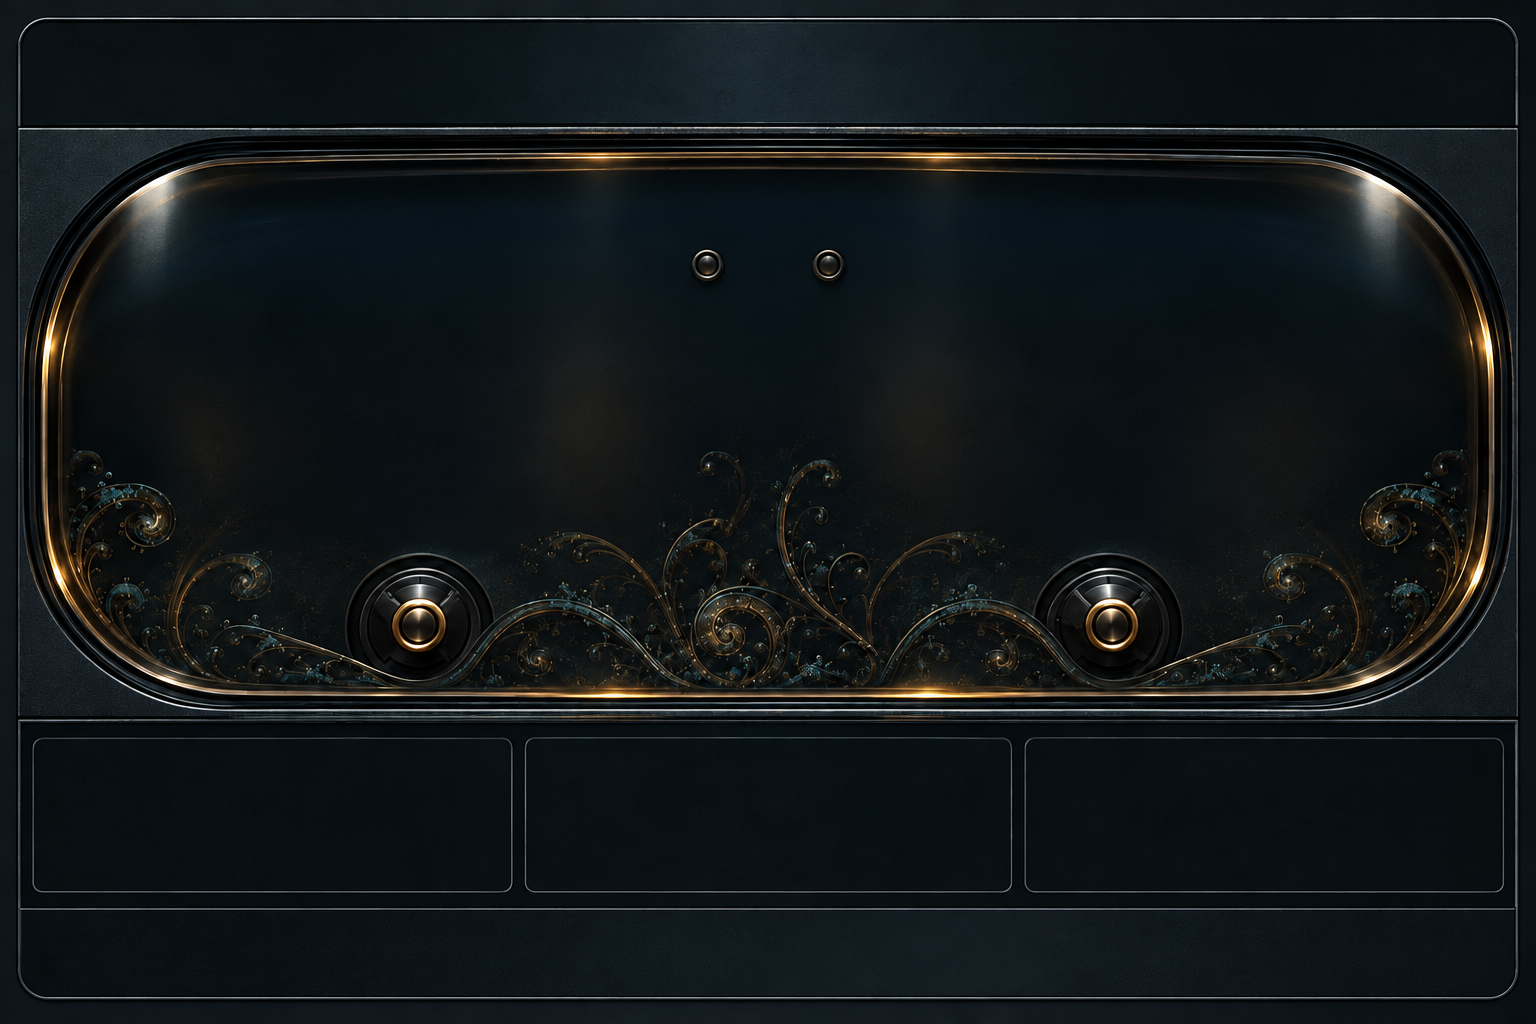
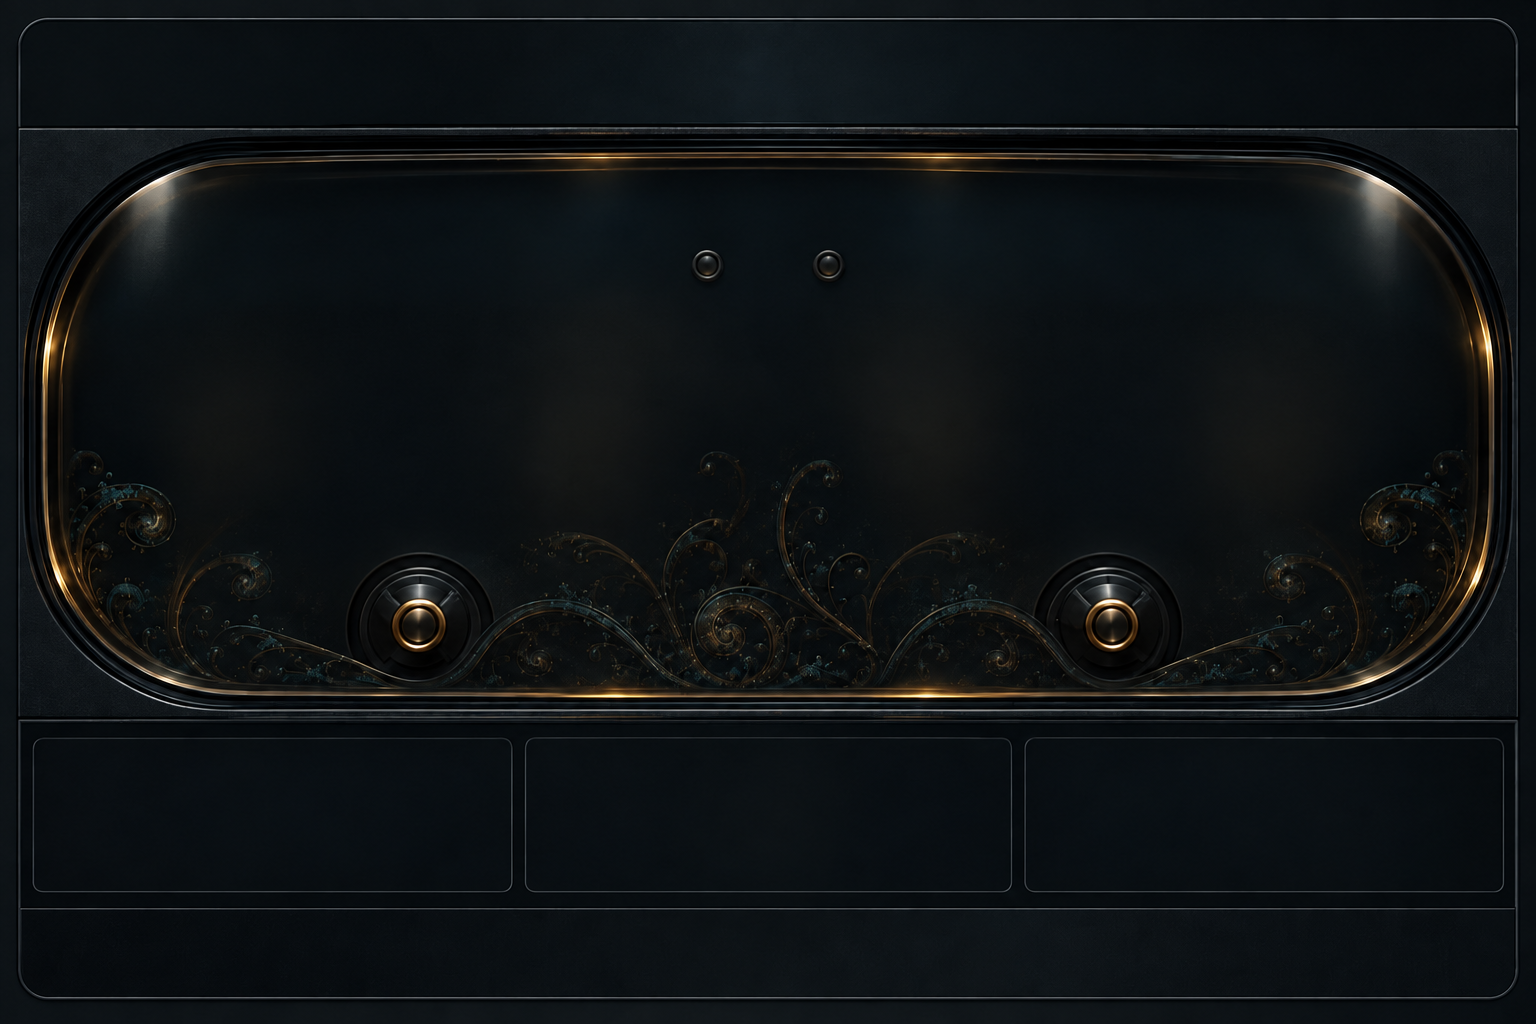
[B-764] Match Hybrid VU reference face

diff --git a/juce_shell/src/HyphaHybridVuPainter.cpp b/juce_shell/src/HyphaHybridVuPainter.cpp
@@ -16,6 +16,12 @@ constexpr float pi = juce::MathConstants<float>::pi;
 constexpr std::array<int, 18> vuTickHalves {
     -40, -35, -30, -25, -20, -18, -16, -14, -12, -10, -8, -6, -4, -2, 0, 2, 4, 6
 };
+// A physical VU face is not a linear dB ruler.  These control points reproduce the attached
+// dial's engraved positions while the 300 ms measurement and 0 VU calibration remain unchanged.
+constexpr std::array<double, 10> vuScaleDb { -40.0, -20.0, -10.0, -7.0, -5.0,
+                                             -3.0, -1.0, 0.0, 1.0, 3.0 };
+constexpr std::array<float, 10> vuScalePosition { 0.0f, 0.071f, 0.239f, 0.328f, 0.421f,
+                                                  0.550f, 0.701f, 0.780f, 0.866f, 1.0f };
 
 const auto meterIvory = COL_FLORA_BR.interpolatedWith (COL_NORMAL, 0.34f);
 
@@ -34,9 +40,10 @@ float scaled (float value, float width, float minimum = 0.7f) noexcept
 
 void drawText (juce::Graphics& g, const juce::String& text, juce::Rectangle<float> area,
                float fontHeight, juce::Colour colour, juce::Justification justification,
-               bool tabular = false)
+               bool tabular = false, float tracking = 0.0f)
 {
-    const auto font = tabular ? monoFont (fontHeight) : labelFont (fontHeight);
+    const auto font = (tabular ? monoFont (fontHeight) : labelFont (fontHeight))
+                          .withExtraKerningFactor (tracking);
     g.setColour (colour);
     if (tabular)
         drawTabularText (g, font, text, area, justification);
@@ -58,48 +65,51 @@ void paintHeader (juce::Graphics& g, juce::Rectangle<float> area, const State& s
     drawText (g, width >= 450.0f ? "H Y P H A" : "HYPHA",
               titleArea.removeFromLeft (hyphaWidth), fontHeight,
               COL_NORMAL, juce::Justification::centredLeft);
-    titleArea.removeFromLeft (scaled (10.0f, width, 2.0f));
+    titleArea.removeFromLeft (scaled (5.0f, width, 1.0f));
     drawText (g, state.role == observatory::Role::post ? "POST" : "PRE", titleArea,
               fontHeight * 0.87f, COL_MUTED.brighter (0.18f),
-              juce::Justification::centredLeft);
+              juce::Justification::centredLeft, false, 0.12f);
 
-    auto record = title.removeFromRight (title.getWidth() * 0.20f);
+    auto record = title.removeFromRight (title.getWidth() * (width < 450.0f ? 0.28f : 0.205f));
     auto connection = title;
     if (width >= 450.0f)
         connection.removeFromLeft (connection.getWidth() * 0.60f);
     const auto dot = juce::jlimit (3.0f, 11.0f, width * 0.010f);
     const auto connectionDot = juce::Point<float> (connection.getX() + dot,
                                                     connection.getCentreY());
-    g.setColour (state.connectionColour.withAlpha (0.13f));
+    const auto brightConnection = state.connectionColour.interpolatedWith (
+        COL_SPECTRUM_DELTA, 0.30f);
+    g.setColour (brightConnection.withAlpha (0.13f));
     g.fillEllipse (connectionDot.x - dot, connectionDot.y - dot, dot * 2.0f, dot * 2.0f);
-    g.setColour (state.connectionColour);
+    g.setColour (brightConnection);
     g.fillEllipse (connectionDot.x - dot * 0.45f, connectionDot.y - dot * 0.45f,
                    dot * 0.9f, dot * 0.9f);
     connection.removeFromLeft (dot * 3.4f);
     drawText (g, state.connectionText, connection.reduced (0.0f, area.getHeight() * 0.15f),
-              fontHeight * 0.66f, state.connectionColour,
+              fontHeight * 0.66f, brightConnection,
               juce::Justification::centredLeft);
 
     g.setColour (COL_MUTED.withAlpha (0.46f));
     g.drawVerticalLine (juce::roundToInt (record.getX()),
                         record.getY() + area.getHeight() * 0.24f,
                         record.getBottom() - area.getHeight() * 0.24f);
-    const auto recordDot = juce::Point<float> (record.getX() + record.getWidth() * 0.45f,
+    const auto recordDot = juce::Point<float> (record.getX() + record.getWidth() * 0.42f,
                                                 record.getCentreY());
-    g.setColour (COL_FLORA_BR.withAlpha (0.11f));
+    const auto recordColour = COL_MUTED.brighter (0.30f);
+    g.setColour (recordColour.withAlpha (0.11f));
     g.fillEllipse (recordDot.x - dot, recordDot.y - dot, dot * 2.0f, dot * 2.0f);
-    g.setColour (COL_FLORA_BR);
+    g.setColour (recordColour);
     g.fillEllipse (recordDot.x - dot * 0.48f, recordDot.y - dot * 0.48f,
                    dot * 0.96f, dot * 0.96f);
-    record.removeFromLeft (record.getWidth() * 0.62f);
-    drawText (g, "REC", record, fontHeight * 0.68f, COL_NORMAL.withAlpha (0.88f),
-              juce::Justification::centredLeft);
+    record.removeFromLeft (record.getWidth() * 0.60f);
+    drawText (g, "REC", record, fontHeight * 0.68f, recordColour,
+              juce::Justification::centredLeft, false, 0.10f);
 }
 
 juce::Point<float> peakRailPoint (juce::Rectangle<float> face, int channel, float amount)
 {
-    const auto inner = channel == 0 ? 0.390f : 0.610f;
-    const auto outer = channel == 0 ? 0.075f : 0.925f;
+    const auto inner = channel == 0 ? 0.384f : 0.616f;
+    const auto outer = channel == 0 ? 0.071f : 0.929f;
     const auto x = face.getX() + face.getWidth() * juce::jmap (amount, outer, inner);
     const auto y = face.getY() + face.getHeight()
         * (0.225f - 0.060f * std::sin (amount * pi * 0.5f));
@@ -113,26 +123,31 @@ void paintPeakRail (juce::Graphics& g, juce::Rectangle<float> face, const State&
         && std::isfinite (state.meter.channel_instant_true_peak_dbtp[channel]);
     const auto progress = available
         ? truePeakNormalized (state.meter.channel_instant_true_peak_dbtp[channel]) : 0.0f;
-    const int segments = compact ? 17 : 43;
+    const int segments = compact ? 21 : 49;
     const auto width = face.getWidth();
     for (int index = 0; index < segments; ++index)
     {
         const auto amount = static_cast<float> (index) / static_cast<float> (segments - 1);
         const auto point = peakRailPoint (face, channel, amount);
         const auto lit = amount <= progress;
-        const auto emphasized = lit && amount >= 0.07f;
-        const auto height = scaled (index % (compact ? 3 : 6) == 0 ? 10.0f : 7.0f,
-                                    width, compact ? 2.0f : 3.0f);
+        const auto emphasized = lit && amount >= truePeakNormalized (-24.0);
+        const auto height = scaled (index % (compact ? 4 : 7) == 0 ? 12.0f : 9.0f,
+                                    width, compact ? 2.4f : 3.5f);
         if (emphasized)
         {
-            const auto segmentWidth = scaled (compact ? 4.0f : 5.2f, width, 1.3f);
+            const auto segmentWidth = scaled (compact ? 4.0f : 5.6f, width, 1.3f);
+            g.setColour (COL_SPECTRUM_DELTA.withAlpha (0.14f));
+            g.fillRoundedRectangle (point.x - segmentWidth,
+                                    point.y - height * 0.75f,
+                                    segmentWidth * 2.0f, height * 1.5f,
+                                    segmentWidth * 0.55f);
             g.setColour (COL_SPECTRUM_DELTA.withAlpha (0.96f));
             g.fillRoundedRectangle (point.x - segmentWidth * 0.5f, point.y - height * 0.5f,
                                     segmentWidth, height, segmentWidth * 0.28f);
         }
         else
         {
-            g.setColour (COL_SPECTRUM_DELTA.withAlpha (0.66f));
+            g.setColour (COL_SPECTRUM_DELTA.withAlpha (0.78f));
             g.drawVerticalLine (juce::roundToInt (point.x), point.y - height * 0.5f,
                                 point.y + height * 0.5f);
         }
@@ -143,9 +158,14 @@ void paintPeakRail (juce::Graphics& g, juce::Rectangle<float> face, const State&
     {
         const auto held = peakRailPoint (
             face, channel, truePeakNormalized (state.meter.channel_max_true_peak_dbtp[channel]));
+        g.setColour (COL_FLORA_BR.withAlpha (0.17f));
+        g.fillRoundedRectangle (held.x - scaled (5.0f, width),
+                                held.y - scaled (15.0f, width),
+                                scaled (10.0f, width), scaled (30.0f, width),
+                                scaled (4.0f, width));
         g.setColour (COL_FLORA_BR);
-        g.fillRoundedRectangle (held.x - scaled (2.0f, width), held.y - scaled (11.0f, width),
-                                scaled (4.0f, width), scaled (22.0f, width),
+        g.fillRoundedRectangle (held.x - scaled (2.0f, width), held.y - scaled (12.0f, width),
+                                scaled (4.0f, width), scaled (24.0f, width),
                                 scaled (1.5f, width));
     }
 
@@ -176,11 +196,14 @@ void paintClipStatus (juce::Graphics& g, juce::Rectangle<float> face, const Stat
         const auto x = centre.x + (channel == 0 ? -1.0f : 1.0f) * scaled (36.0f, width, 12.0f);
         const auto on = state.cumulativeAvailable && channel < state.meter.channels
                      && state.meter.clip_events[channel] > 0;
-        g.setColour ((on ? COL_FLORA_BR : COL_MUTED).withAlpha (on ? 0.90f : 0.24f));
-        g.fillEllipse (x - radius, centre.y - radius, radius * 2.0f, radius * 2.0f);
-        g.setColour (COL_MUTED.withAlpha (0.72f));
-        g.drawEllipse (x - radius, centre.y - radius, radius * 2.0f, radius * 2.0f,
-                       scaled (1.0f, width));
+        if (on)
+        {
+            g.setColour (COL_FLORA_BR.withAlpha (0.16f));
+            g.fillEllipse (x - radius, centre.y - radius, radius * 2.0f, radius * 2.0f);
+            const auto core = radius * 0.40f;
+            g.setColour (COL_FLORA_BR.withAlpha (0.96f));
+            g.fillEllipse (x - core, centre.y - core, core * 2.0f, core * 2.0f);
+        }
     }
     if (! compact)
     {
@@ -211,8 +234,8 @@ DialGeometry dialGeometry (juce::Rectangle<float> face, int channel)
 {
     const auto half = face.getWidth() * 0.5f;
     return {
-        { face.getX() + half * (channel == 0 ? 0.52f : 1.48f),
-          face.getY() + face.getHeight() * 0.86f },
+        { face.getX() + half * (channel == 0 ? 0.515f : 1.475f),
+          face.getY() + face.getHeight() * 0.865f },
         juce::jmin (half * 0.438f, face.getHeight() * 0.59f),
         face.getHeight() * 0.483f,
         face.getHeight() * 0.136f
@@ -239,8 +262,10 @@ void paintDial (juce::Graphics& g, juce::Rectangle<float> face, const State& sta
         const auto point = dialPoint (dial, step / 80.0f);
         if (step == 0) arc.startNewSubPath (point); else arc.lineTo (point);
     }
-    g.setColour (meterIvory.withAlpha (0.86f));
-    g.strokePath (arc, juce::PathStrokeType (scaled (1.9f, width)));
+    g.setColour (meterIvory.withAlpha (0.10f));
+    g.strokePath (arc, juce::PathStrokeType (scaled (4.5f, width)));
+    g.setColour (meterIvory.withAlpha (0.90f));
+    g.strokePath (arc, juce::PathStrokeType (scaled (2.35f, width)));
 
     for (const auto halfVu : vuTickHalves)
     {
@@ -254,20 +279,24 @@ void paintDial (juce::Graphics& g, juce::Rectangle<float> face, const State& sta
         const auto inner = dialPoint (dial, normalized);
         const auto tickScale = major ? 1.13f : 1.065f;
         const auto outer = pivot + (inner - pivot) * tickScale;
-        g.setColour (meterIvory.withAlpha (major ? 0.96f : 0.72f));
-        g.drawLine ({ inner, outer }, scaled (major ? 2.3f : 1.1f, width));
+        g.setColour (meterIvory.withAlpha (major ? 0.98f : 0.76f));
+        g.drawLine ({ inner, outer }, scaled (major ? 2.6f : 1.4f, width));
         const bool show = major && (! compact || halfVu == -40 || halfVu == -20
                                     || halfVu == -6 || halfVu == 0 || halfVu == 6);
         if (show)
         {
+            const auto edge = std::abs (normalized * 2.0f - 1.0f);
+            const auto edgeLift = juce::jlimit (0.0f, 1.0f, (edge - 0.4f) / 0.6f);
+            const auto labelXScale = 1.14f + edge * 0.035f;
+            const auto labelYScale = 1.19f + edgeLift * edgeLift * 0.12f;
             const auto point = juce::Point<float> (
-                pivot.x + (inner.x - pivot.x) * 1.14f,
-                pivot.y + (inner.y - pivot.y) * 1.19f);
+                pivot.x + (inner.x - pivot.x) * labelXScale,
+                pivot.y + (inner.y - pivot.y) * labelYScale);
             drawText (g, vu > 0.0f ? "+" + juce::String ((int) vu) : juce::String ((int) vu),
                       { point.x - scaled (26.0f, width, 9.0f),
                         point.y - scaled (10.0f, width, 4.0f),
                         scaled (52.0f, width, 18.0f), scaled (20.0f, width, 8.0f) },
-                      scaled (14.5f, width, 5.6f), COL_NORMAL.withAlpha (0.88f),
+                      scaled (14.5f, width, 5.6f), meterIvory.withAlpha (0.92f),
                       juce::Justification::centred, true);
         }
     }
@@ -278,21 +307,21 @@ void paintDial (juce::Graphics& g, juce::Rectangle<float> face, const State& sta
                                                             : referenceDbfs - 40.0);
     const auto scalePoint = dialPoint (dial, normalized);
     const auto needleEnd = pivot + (scalePoint - pivot) * 1.11f;
-    g.setColour (COL_FLORA_BR.withAlpha (0.22f));
-    g.drawLine ({ pivot, needleEnd }, scaled (5.5f, width, 1.5f));
-    g.setColour (meterIvory.brighter (0.06f));
-    g.drawLine ({ pivot, needleEnd }, scaled (2.0f, width, 0.9f));
+    g.setColour (COL_FLORA_BR.withAlpha (0.20f));
+    g.drawLine ({ pivot, needleEnd }, scaled (5.2f, width, 1.5f));
+    g.setColour (meterIvory.brighter (0.09f));
+    g.drawLine ({ pivot, needleEnd }, scaled (2.7f, width, 0.95f));
 
     if (! compact)
         drawText (g, "VU", { pivot.x - dial.radiusX * 0.31f,
                               pivot.y - face.getHeight() * 0.405f,
                               dial.radiusX * 0.62f, scaled (28.0f, width, 10.0f) },
-                  scaled (19.0f, width, 7.0f), meterIvory.withAlpha (0.92f),
-                  juce::Justification::centred);
+                  scaled (20.5f, width, 7.0f), meterIvory.withAlpha (0.94f),
+                  juce::Justification::centred, false, 0.08f);
     drawText (g, channel == 0 ? "L" : (state.meter.channels > 1 ? "R" : hypha::emDash()),
               { pivot.x - dial.radiusX * 0.28f, pivot.y - face.getHeight() * 0.285f,
                 dial.radiusX * 0.56f, scaled (42.0f, width, 14.0f) },
-              scaled (29.0f, width, 9.0f), COL_MUTED.brighter (0.22f),
+              scaled (30.5f, width, 9.0f), COL_MUTED.brighter (0.22f),
               juce::Justification::centred);
 }
 
@@ -308,7 +337,7 @@ void paintMeterFace (juce::Graphics& g, juce::Rectangle<float> face, const State
                 inner.getY() + inner.getHeight() * 0.005f,
                 inner.getWidth() * 0.32f, inner.getHeight() * 0.11f },
               scaled (15.0f, width, 5.2f), COL_MUTED.brighter (0.18f),
-              juce::Justification::centred);
+              juce::Justification::centred, false, compact ? 0.0f : 0.15f);
     paintClipStatus (g, inner, state, compact);
     paintDial (g, inner, state, 0, compact);
     paintDial (g, inner, state, 1, compact);
@@ -319,11 +348,12 @@ void paintMetric (juce::Graphics& g, juce::Rectangle<float> area, const char* la
 {
     auto content = area.reduced (0.0f, area.getHeight() * 0.10f);
     const auto wideLabel = juce::String (label) == "CREST";
-    const auto labelFraction = wideLabel ? 0.40f : (juce::String (label) == "TP" ? 0.28f : 0.245f);
+    const auto truePeakLabel = juce::String (label) == "TP";
+    const auto labelFraction = wideLabel ? 0.40f : (truePeakLabel ? 0.28f : 0.245f);
     auto labelArea = content.removeFromLeft (area.getWidth() * labelFraction);
     auto unitArea = content.removeFromRight (
-        area.getWidth() * (wideLabel ? 0.18f : (juce::String (label) == "TP" ? 0.31f : 0.28f)));
-    drawText (g, label, labelArea, juce::jlimit (7.0f, 20.0f, area.getHeight() * 0.27f),
+        area.getWidth() * (wideLabel ? 0.18f : (truePeakLabel ? 0.31f : 0.28f)));
+    drawText (g, label, labelArea, juce::jlimit (7.0f, 22.0f, area.getHeight() * 0.29f),
               COL_MUTED.brighter (0.12f), juce::Justification::centred);
     g.setColour (COL_MUTED.withAlpha (0.40f));
     g.drawVerticalLine (juce::roundToInt (labelArea.getRight()), content.getY(), content.getBottom());
@@ -332,11 +362,13 @@ void paintMetric (juce::Graphics& g, juce::Rectangle<float> area, const char* la
                                    : COL_FLORA_BR.interpolatedWith (COL_NORMAL, 0.42f))
                      : COL_MUTED);
     drawTabularText (g,
-                     monoFont (juce::jlimit (13.0f, 50.0f, area.getHeight() * 0.60f))
-                         .withHorizontalScale (0.82f),
+                     monoFont (juce::jlimit (13.0f, 58.0f, area.getHeight() * 0.65f))
+                         .withHorizontalScale (wideLabel || truePeakLabel ? 0.66f : 0.68f),
                      std::isfinite (value) ? juce::String (value, 1) : juce::String ("---"),
-                     content.reduced (area.getWidth() * 0.01f, 0.0f),
-                     juce::Justification::centred);
+                     content.reduced (area.getWidth()
+                                          * (truePeakLabel ? 0.030f : (wideLabel ? 0.033f : 0.040f)),
+                                      0.0f),
+                     juce::Justification::centredRight);
     drawText (g, unit, unitArea, juce::jlimit (6.5f, 18.0f, area.getHeight() * 0.25f),
               COL_MUTED.brighter (0.12f), juce::Justification::centredLeft);
 }
@@ -345,16 +377,23 @@ void paintMetric (juce::Graphics& g, juce::Rectangle<float> area, const char* la
 float vuNormalized (double dbfs) noexcept
 {
     if (! std::isfinite (dbfs)) return 0.0f;
-    if (dbfs < referenceDbfs - 20.0) return 0.0f;
-    const auto vu = juce::jlimit (-20.0, 3.0, dbfs - referenceDbfs);
-    const auto maximum = std::pow (10.0, 3.0 / 20.0);
-    return static_cast<float> (std::pow (10.0, vu / 20.0) / maximum);
+    const auto vu = juce::jlimit (vuScaleDb.front(), vuScaleDb.back(), dbfs - referenceDbfs);
+    for (size_t upper = 1; upper < vuScaleDb.size(); ++upper)
+        if (vu <= vuScaleDb[upper])
+            return juce::jmap (static_cast<float> (vu),
+                               static_cast<float> (vuScaleDb[upper - 1]),
+                               static_cast<float> (vuScaleDb[upper]),
+                               vuScalePosition[upper - 1], vuScalePosition[upper]);
+    return vuScalePosition.back();
 }
 
 float truePeakNormalized (double dbtp) noexcept
 {
     if (! std::isfinite (dbtp)) return 0.0f;
-    return static_cast<float> (juce::jlimit (0.0, 1.0, (dbtp + 24.0) / 24.0));
+    // The reference face retains a short unlabelled floor below -24 dBTP.  This keeps the
+    // five labelled 6 dB divisions evenly spaced while preserving that physical lead-in.
+    constexpr double floorDbtp = -28.0;
+    return static_cast<float> (juce::jlimit (0.0, 1.0, (dbtp - floorDbtp) / -floorDbtp));
 }
 
 void paint (juce::Graphics& g, juce::Rectangle<int> requested, const State& state)
@@ -405,6 +444,6 @@ void paint (juce::Graphics& g, juce::Rectangle<int> requested, const State& stat
     paintMetric (g, metrics, "CREST", crest, "dB", false);
     drawText (g, "0 VU = -18 dBFS", calibration,
               juce::jlimit (6.0f, 15.0f, calibration.getHeight() * 0.42f),
-              COL_MUTED.withAlpha (0.78f), juce::Justification::centred, true);
+              COL_MUTED.withAlpha (0.78f), juce::Justification::centred, true, 0.08f);
 }
 }

diff --git a/juce_shell/tests/HybridVuContractTest.cpp b/juce_shell/tests/HybridVuContractTest.cpp
@@ -72,10 +72,12 @@ void verifyHybridVuContract()
     KIRIN_HYBRID_VU_REQUIRE (hybrid_vu::vuNormalized (-38.0) < 0.08f);
     KIRIN_HYBRID_VU_REQUIRE (
         std::abs (hybrid_vu::vuNormalized (-15.0) - 1.0f) < 1.0e-6f);
-    KIRIN_HYBRID_VU_REQUIRE (hybrid_vu::vuNormalized (-18.0) > 0.70f);
-    KIRIN_HYBRID_VU_REQUIRE (hybrid_vu::vuNormalized (-18.0) < 0.72f);
+    KIRIN_HYBRID_VU_REQUIRE (hybrid_vu::vuNormalized (-18.0) > 0.77f);
+    KIRIN_HYBRID_VU_REQUIRE (hybrid_vu::vuNormalized (-18.0) < 0.79f);
     KIRIN_HYBRID_VU_REQUIRE (
-        std::abs (hybrid_vu::truePeakNormalized (-24.0)) < 1.0e-6f);
+        std::abs (hybrid_vu::truePeakNormalized (-28.0)) < 1.0e-6f);
+    KIRIN_HYBRID_VU_REQUIRE (hybrid_vu::truePeakNormalized (-24.0) > 0.14f);
+    KIRIN_HYBRID_VU_REQUIRE (hybrid_vu::truePeakNormalized (-24.0) < 0.15f);
     KIRIN_HYBRID_VU_REQUIRE (
         std::abs (hybrid_vu::truePeakNormalized (0.0) - 1.0f) < 1.0e-6f);
 
